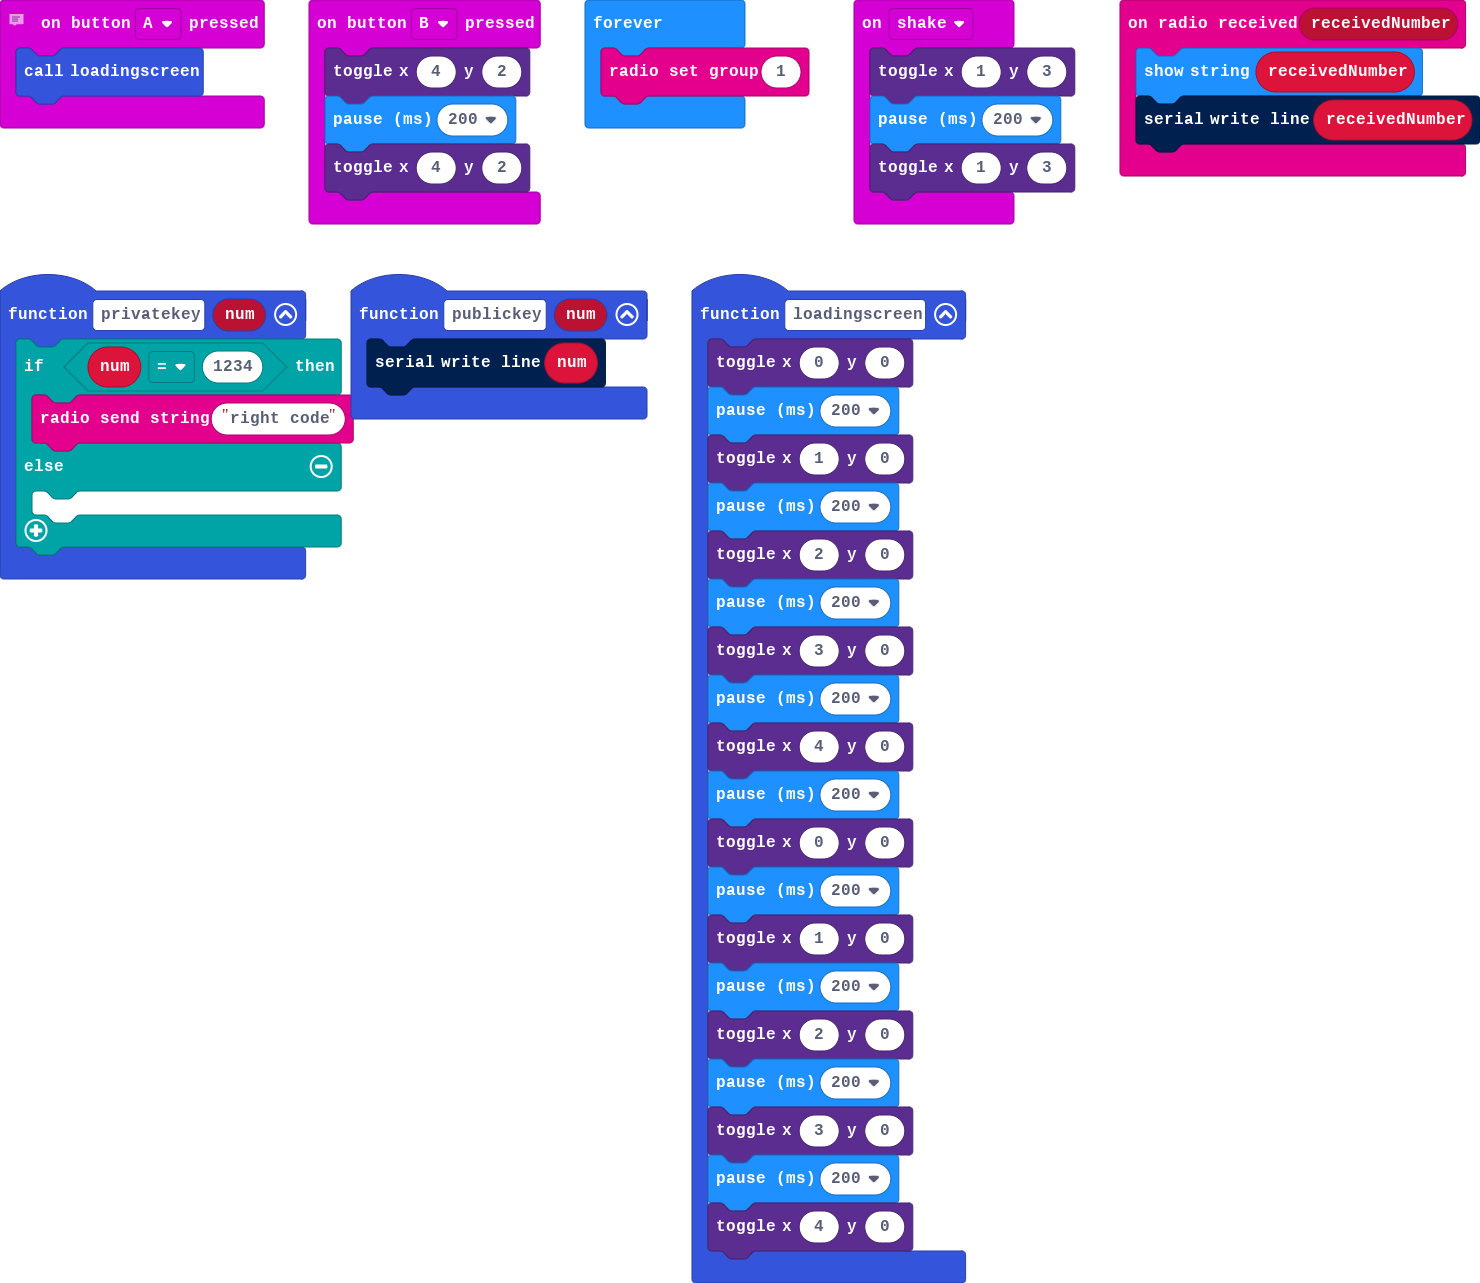
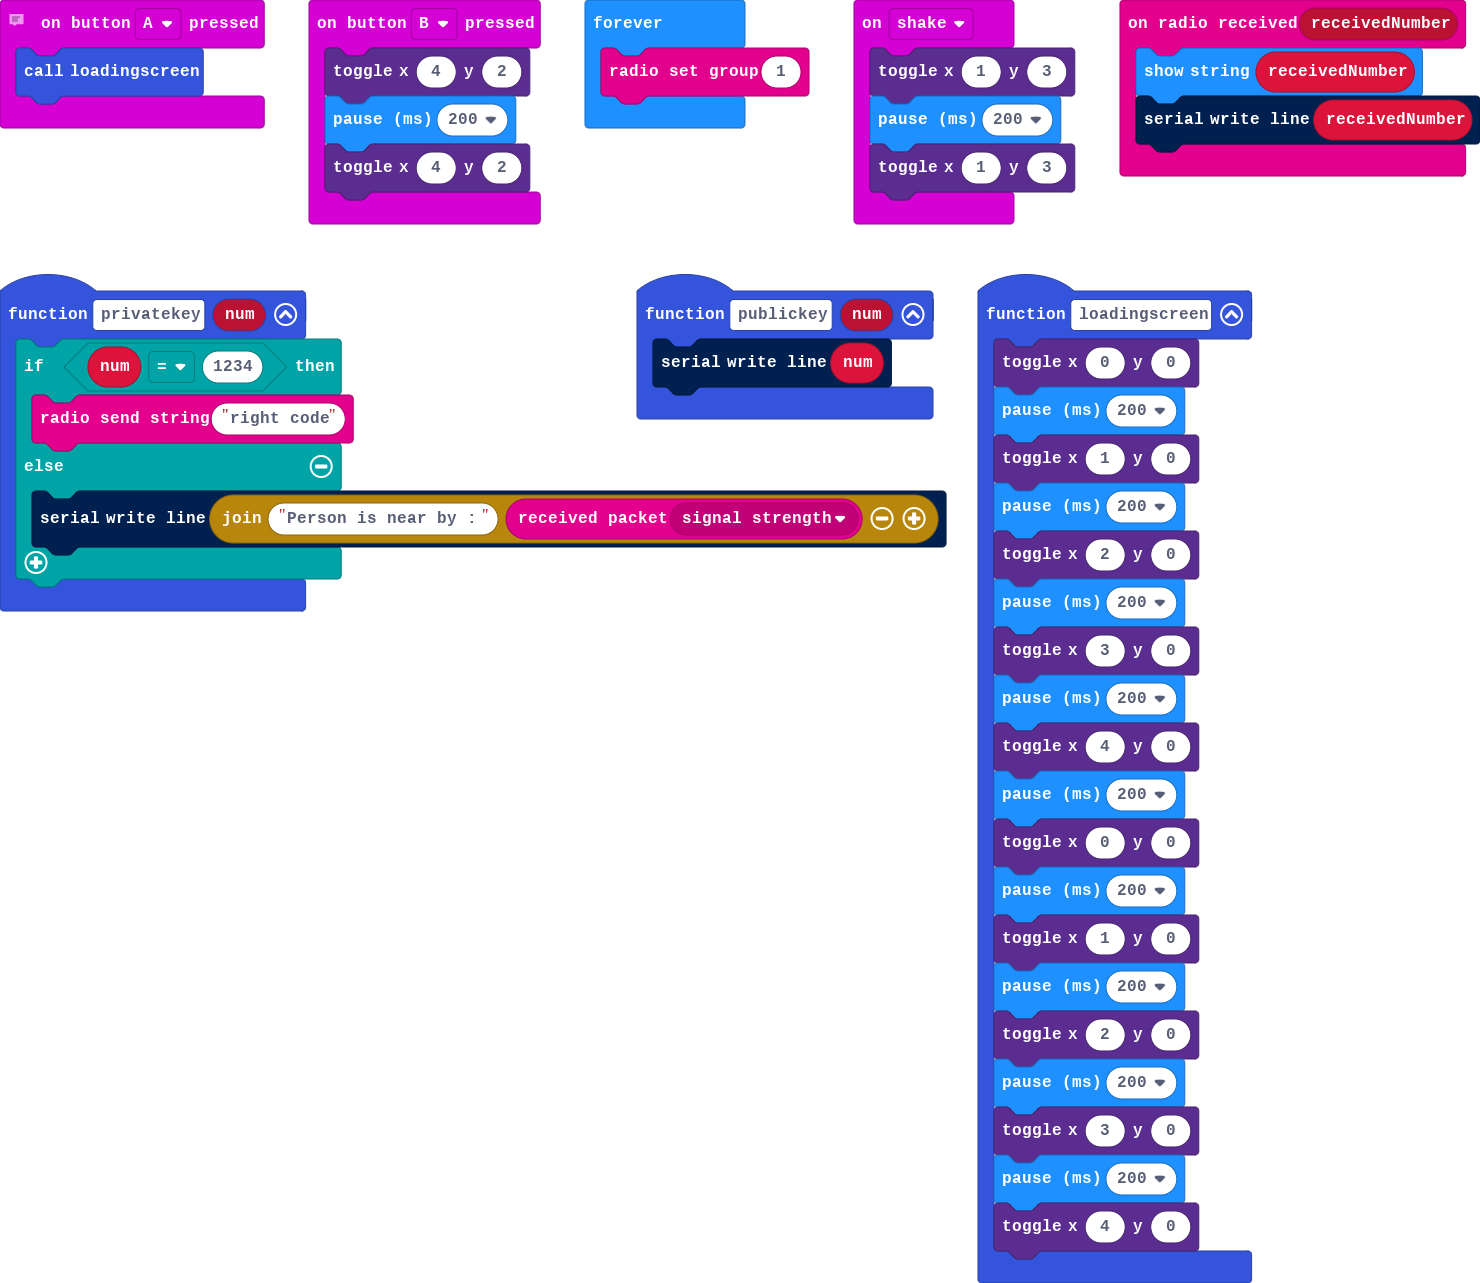
fart

Changed region(s): [[0.0, 0.1871, 0.8703, 1.0]]

diff --git a/main.ts b/main.ts
@@ -5,9 +5,8 @@ radio.onReceivedNumber(function (receivedNumber) {
 function privatekey (num: number) {
     if (num == 1234) {
         radio.sendString("right code")
-        serial.writeLine("someone got the private key lol prob dom")
     } else {
-    	serial.writeLine("Someone tryied the priv key but failed lol")
+        serial.writeLine("Person is near by : " + radio.receivedPacket(RadioPacketProperty.SignalStrength))
     }
 }
 function loadingscreen () {
@@ -51,4 +50,3 @@ function publickey (num: number) {
 basic.forever(function () {
     radio.setGroup(1)
 })
-
